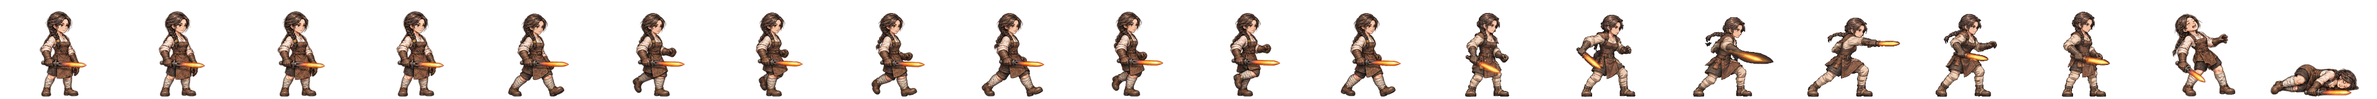
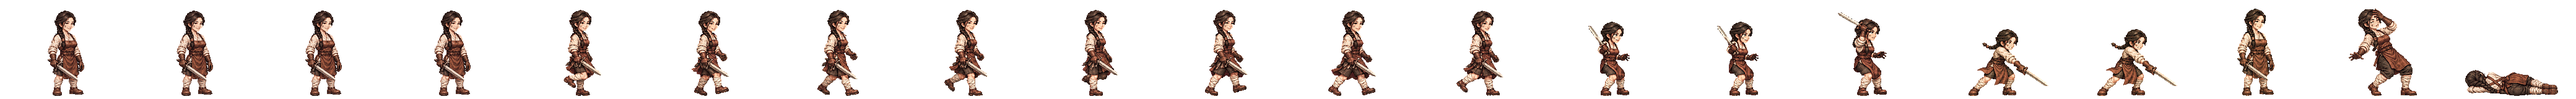
벽진 별 새 전투 띠를 게임에: 내려베기 b 판을 그림 API 로 받아 여덟 칸 · 맞음 네 칸 (두 갈래 검수 넣어도 된다)
하네스 HEROES 에 여섯째 묶음 창 장수 셋(마루·무등·연나 너울) 줄을 미리 더함(아직 게임에 안 넣음)

Claude-Session: https://claude.ai/code/session_01TRiuN7s6aDfSnaHxrkctmU

Changed region(s): [[0.4688, 0.0938, 1.0, 0.9688], [0.0, 0.125, 0.4375, 0.9688]]

diff --git a/src/realm/data/spritePx.ts b/src/realm/data/spritePx.ts
@@ -1,3 +1,3 @@
 /** public/realm/anim-px/manifest.json 의 사본 — tools/sprite-normalize.mjs 가 만든다 (손으로 고치지 말 것). 칸 [가로, 세로] · feet = 발 줄(칸 위에서 y) · bodyPx = 서 있는 몸 키 */
 import { expandManifest } from './sprite-manifest.ts'
-export const SPRITE_PX: Readonly<Record<string, { readonly cell: readonly [number, number]; readonly feet: number; readonly bodyPx: number; readonly kind: 'general' | 'soldier' | 'folk' | 'crowd'; readonly cells: number }>> = expandManifest<{ readonly cell: readonly [number, number]; readonly feet: number; readonly bodyPx: number; readonly kind: 'general' | 'soldier' | 'folk' | 'crowd'; readonly cells: number }>([{"cell":[166,128],"feet":126,"bodyPx":124,"kind":"soldier","cells":20},{"cell":[116,128],"feet":126,"bodyPx":117,"kind":"soldier","cells":20},{"cell":[127,128],"feet":126,"bodyPx":116,"kind":"soldier","cells":20},{"cell":[269,128],"feet":126,"bodyPx":126,"kind":"soldier","cells":20},{"cell":[503,128],"feet":126,"bodyPx":127,"kind":"soldier","cells":20},{"cell":[614,128],"feet":126,"bodyPx":126,"kind":"soldier","cells":20},{"cell":[200,160],"feet":156,"bodyPx":138,"kind":"general","cells":20},{"cell":[208,160],"feet":155,"bodyPx":138,"kind":"general","cells":20},{"cell":[208,160],"feet":154,"bodyPx":138,"kind":"general","cells":20},{"cell":[304,160],"feet":155,"bodyPx":135,"kind":"general","cells":20},{"cell":[184,160],"feet":156,"bodyPx":138,"kind":"general","cells":20},{"cell":[208,160],"feet":154,"bodyPx":136,"kind":"general","cells":20},{"cell":[240,160],"feet":156,"bodyPx":138,"kind":"general","cells":20},{"cell":[232,160],"feet":156,"bodyPx":138,"kind":"general","cells":20},{"cell":[208,160],"feet":156,"bodyPx":138,"kind":"general","cells":20},{"cell":[192,160],"feet":156,"bodyPx":138,"kind":"general","cells":20},{"cell":[168,160],"feet":156,"bodyPx":124,"kind":"general","cells":20},{"cell":[216,160],"feet":156,"bodyPx":130,"kind":"general","cells":20},{"cell":[200,160],"feet":156,"bodyPx":116,"kind":"general","cells":20},{"cell":[200,160],"feet":156,"bodyPx":135,"kind":"general","cells":20},{"cell":[280,160],"feet":156,"bodyPx":138,"kind":"general","cells":20},{"cell":[232,160],"feet":155,"bodyPx":138,"kind":"general","cells":20},{"cell":[232,160],"feet":156,"bodyPx":134,"kind":"general","cells":20},{"cell":[144,160],"feet":156,"bodyPx":70,"kind":"general","cells":20},{"cell":[208,160],"feet":156,"bodyPx":70,"kind":"general","cells":20},{"cell":[192,160],"feet":156,"bodyPx":70,"kind":"general","cells":20},{"cell":[240,160],"feet":155,"bodyPx":138,"kind":"general","cells":20},{"cell":[160,160],"feet":156,"bodyPx":135,"kind":"general","cells":20},{"cell":[192,160],"feet":156,"bodyPx":128,"kind":"general","cells":20},{"cell":[224,160],"feet":155,"bodyPx":138,"kind":"general","cells":20},{"cell":[232,160],"feet":156,"bodyPx":139,"kind":"general","cells":20},{"cell":[216,160],"feet":156,"bodyPx":138,"kind":"general","cells":20},{"cell":[208,160],"feet":156,"bodyPx":134,"kind":"general","cells":20},{"cell":[176,160],"feet":156,"bodyPx":130,"kind":"general","cells":20},{"cell":[248,160],"feet":156,"bodyPx":138,"kind":"general","cells":20},{"cell":[248,160],"feet":155,"bodyPx":138,"kind":"general","cells":20},{"cell":[192,160],"feet":155,"bodyPx":138,"kind":"general","cells":20},{"cell":[192,160],"feet":156,"bodyPx":124,"kind":"general","cells":20},{"cell":[208,160],"feet":154,"bodyPx":131,"kind":"general","cells":20},{"cell":[256,160],"feet":156,"bodyPx":138,"kind":"general","cells":20},{"cell":[232,160],"feet":156,"bodyPx":73,"kind":"general","cells":20},{"cell":[256,160],"feet":155,"bodyPx":138,"kind":"general","cells":20},{"cell":[264,160],"feet":156,"bodyPx":138,"kind":"general","cells":20},{"cell":[224,160],"feet":156,"bodyPx":138,"kind":"general","cells":20},{"cell":[224,160],"feet":156,"bodyPx":128,"kind":"general","cells":20},{"cell":[176,160],"feet":156,"bodyPx":129,"kind":"general","cells":20},{"cell":[208,160],"feet":154,"bodyPx":139,"kind":"general","cells":20},{"cell":[208,160],"feet":156,"bodyPx":132,"kind":"general","cells":20},{"cell":[208,160],"feet":154,"bodyPx":137,"kind":"general","cells":20},{"cell":[184,160],"feet":156,"bodyPx":122,"kind":"general","cells":20},{"cell":[176,160],"feet":156,"bodyPx":138,"kind":"general","cells":20},{"cell":[280,160],"feet":155,"bodyPx":133,"kind":"general","cells":20},{"cell":[176,160],"feet":156,"bodyPx":70,"kind":"general","cells":20},{"cell":[186,128],"feet":126,"bodyPx":127,"kind":"soldier","cells":20},{"cell":[298,128],"feet":126,"bodyPx":126,"kind":"soldier","cells":20},{"cell":[82,128],"feet":126,"bodyPx":114,"kind":"folk","cells":8},{"cell":[134,128],"feet":126,"bodyPx":119,"kind":"soldier","cells":20},{"cell":[380,128],"feet":126,"bodyPx":124,"kind":"soldier","cells":20},{"cell":[114,128],"feet":126,"bodyPx":115,"kind":"soldier","cells":20},{"cell":[122,128],"feet":126,"bodyPx":114,"kind":"soldier","cells":20},{"cell":[254,128],"feet":126,"bodyPx":128,"kind":"soldier","cells":20},{"cell":[438,128],"feet":126,"bodyPx":126,"kind":"soldier","cells":20},{"cell":[88,128],"feet":126,"bodyPx":113,"kind":"folk","cells":8},{"cell":[100,128],"feet":126,"bodyPx":115,"kind":"folk","cells":8},{"cell":[108,128],"feet":126,"bodyPx":115,"kind":"folk","cells":8},{"cell":[63,128],"feet":126,"bodyPx":113,"kind":"folk","cells":8},{"cell":[69,96],"feet":96,"bodyPx":96,"kind":"crowd","cells":1},{"cell":[54,96],"feet":96,"bodyPx":96,"kind":"crowd","cells":1},{"cell":[47,96],"feet":96,"bodyPx":96,"kind":"crowd","cells":1},{"cell":[49,96],"feet":96,"bodyPx":96,"kind":"crowd","cells":1},{"cell":[57,96],"feet":96,"bodyPx":96,"kind":"crowd","cells":1},{"cell":[55,96],"feet":96,"bodyPx":96,"kind":"crowd","cells":1},{"cell":[45,96],"feet":96,"bodyPx":96,"kind":"crowd","cells":1},{"cell":[53,96],"feet":96,"bodyPx":96,"kind":"crowd","cells":1},{"cell":[64,96],"feet":96,"bodyPx":96,"kind":"crowd","cells":1},{"cell":[184,160],"feet":156,"bodyPx":124,"kind":"general","cells":20},{"cell":[184,160],"feet":156,"bodyPx":134,"kind":"general","cells":20},{"cell":[224,160],"feet":156,"bodyPx":133,"kind":"general","cells":20},{"cell":[192,160],"feet":156,"bodyPx":135,"kind":"general","cells":20},{"cell":[184,160],"feet":156,"bodyPx":137,"kind":"general","cells":20},{"cell":[216,160],"feet":156,"bodyPx":134,"kind":"general","cells":20},{"cell":[216,160],"feet":156,"bodyPx":132,"kind":"general","cells":20},{"cell":[288,160],"feet":156,"bodyPx":138,"kind":"general","cells":20},{"cell":[192,160],"feet":156,"bodyPx":118,"kind":"general","cells":20},{"cell":[208,160],"feet":154,"bodyPx":134,"kind":"general","cells":20},{"cell":[192,160],"feet":157,"bodyPx":139,"kind":"general","cells":20},{"cell":[184,160],"feet":156,"bodyPx":128,"kind":"general","cells":20},{"cell":[240,160],"feet":156,"bodyPx":128,"kind":"general","cells":20},{"cell":[184,160],"feet":156,"bodyPx":132,"kind":"general","cells":20},{"cell":[208,160],"feet":156,"bodyPx":123,"kind":"general","cells":20},{"cell":[176,160],"feet":156,"bodyPx":116,"kind":"general","cells":20},{"cell":[272,160],"feet":156,"bodyPx":138,"kind":"general","cells":20},{"cell":[176,160],"feet":156,"bodyPx":122,"kind":"general","cells":20},{"cell":[232,160],"feet":156,"bodyPx":127,"kind":"general","cells":20},{"cell":[168,160],"feet":156,"bodyPx":138,"kind":"general","cells":20},{"cell":[176,160],"feet":156,"bodyPx":137,"kind":"general","cells":20},{"cell":[184,160],"feet":156,"bodyPx":133,"kind":"general","cells":20}],[["axe",0],["bandit-chief",1],["bandit-club",2],["boat",3],["bow",4],["crossbow",5],["gen-adogan",6],["gen-alpyeong",7],["gen-ara",8],["gen-areum",8],["gen-aryeong",9],["gen-bakdal",6],["gen-baram",8],["gen-bdanbi",10],["gen-beom",11],["gen-beombal",8],["gen-beomi",12],["gen-bira",13],["gen-biryu",14],["gen-budeul",8],["gen-byeol",15],["gen-daemusin",16],["gen-daeso",17],["gen-dallae2",10],["gen-dalli",10],["gen-damul",18],["gen-danbi",14],["gen-dangung",15],["gen-darae",19],["gen-dokmudeom",7],["gen-duman",20],["gen-eomni",21],["gen-eureum",22],["gen-g-bow",23],["gen-g-spear",24],["gen-g-sword",25],["gen-gaennae",6],["gen-gamsil",26],["gen-gaon",27],["gen-geota",14],["gen-geumbawi",10],["gen-geumha",28],["gen-goeun",14],["gen-gom",29],["gen-gomok",14],["gen-gureum",26],["gen-guryema",15],["gen-gwaeyu",13],["gen-haebi",8],["gen-haedal",6],["gen-haesol",30],["gen-halla",7],["gen-heo",8],["gen-hneoul",10],["gen-hogong",31],["gen-hojin",14],["gen-horselord",32],["gen-hwalmi",33],["gen-hyeokgeose",15],["gen-hyeopbo",6],["gen-irang",8],["gen-jibaekho",34],["gen-jinha",35],["gen-jita",36],["gen-jumong",37],["gen-keundol",7],["gen-maehwa",38],["gen-maenun",15],["gen-malgalgi",39],["gen-mari",12],["gen-maro",34],["gen-maryeo",14],["gen-mdallae",30],["gen-mir",6],["gen-mount",40],["gen-mulbeom",41],["gen-mulsae",31],["gen-musoe",31],["gen-noeul",8],["gen-nuri",42],["gen-ocheongan",43],["gen-odi",8],["gen-odogan",6],["gen-ogan",15],["gen-oi",44],["gen-olddaeso",22],["gen-onjo",45],["gen-pidogan",14],["gen-sagong",46],["gen-sdallae",6],["gen-sincheongan",31],["gen-singwigan",31],["gen-sinneoul",8],["gen-sobeol",21],["gen-soebi",6],["gen-soebo",47],["gen-soenun",34],["gen-sogeumbi",48],["gen-songbi",43],["gen-songyang",49],["gen-sori",50],["gen-soseono",51],["gen-suro",15],["gen-tahae",6],["gen-tneoul",8],["gen-w-bow",23],["gen-w-spear",52],["gen-waechief",14],["gen-wan",31],["gen-yeodogan",14],["gen-yucheongan",14],["gen-yusugan",34],["horse",53],["marine",54],["migrant",55],["militia",56],["pike",57],["pirate-captain",58],["pirate-sword",59],["shield",60],["spear",61],["villager-builder",62],["villager-farmer",63],["villager-porter",64],["villager-woman",65],["crowd-b1",66],["crowd-b2",67],["crowd-b3",68],["crowd-b4",69],["crowd-b5",70],["crowd-b6",71],["crowd-f1",66],["crowd-f2",71],["crowd-f3",72],["crowd-f4",73],["crowd-f5",66],["crowd-f6",74],["gen-dalbit",14],["gen-base-g-07-drunk-warrior",15],["gen-base-g-40-anya-adan",14],["gen-base-w-13-young-archer",8],["gen-base-g-03-sea-trader",12],["gen-base-w-10-pirate-captain",46],["gen-base-w-64-miri-dallae",46],["gen-base-g-41-goja-bau",12],["gen-base-g-42-dokro-garam",42],["gen-base-g-09-farmer-conscript",31],["gen-base-w-02-goguryeo-lady",31],["gen-base-w-17-mahan-pearl-diver",8],["gen-base-g-17-saro-isageum",47],["gen-base-g-18-daegaya-king",75],["gen-base-g-35-dabeol-dalgu",14],["gen-base-g-19-sabeol-veteran",31],["gen-base-w-23-usisan-whale-queen",8],["gen-base-g-36-gammun-gamdol",43],["gen-base-g-20-samul-sea-lord",39],["gen-base-g-37-eumjeup-jeup",10],["gen-base-g-38-chopal-palmae",15],["gen-base-w-75-daegaya-soemoe",15],["gen-base-g-45-dabeol-deulgae",10],["gen-base-g-04-jinhan-giant",14],["gen-base-g-08-veteran",14],["gen-base-w-18-jinhan-salt-widow",8],["gen-base-w-12-court-dancer",76],["gen-base-w-83-gyeonji-beodeul",77],["gen-base-w-05-baekje-queen",78],["gen-base-w-21-baekje-court-dancer",10],["gen-base-g-01-master-smith",79],["gen-base-g-93-jomun-solgae",33],["gen-base-g-57-bihwa-neup",12],["gen-base-w-72-eumjeup-beol",8],["gen-base-w-102-garak-dana",46],["gen-base-g-68-baekje-onnuri",14],["gen-base-w-27-mokji-jinha",6],["gen-base-g-22-ungcheon-gomnae",6],["gen-base-g-23-sangdang-soedal",14],["gen-base-g-24-wansan-onsan",6],["gen-base-g-25-balla-keunmoe",31],["gen-base-g-61-heomcheuk-bawi",31],["gen-base-g-88-wander-soeul",43],["gen-base-w-14-feast-spy",6],["gen-base-g-12-silla-youth",80],["gen-base-w-08-mahan-warrior",8],["gen-base-g-62-beonye-hanul",12],["gen-base-g-63-heomcheuk-beogeum",14],["gen-base-g-84-wander-seoneul",14],["gen-base-w-50-siljik-mulga",31],["gen-base-g-46-uga-nureongso",31],["gen-base-w-80-usan-gangchi",12],["gen-base-g-47-guga-sanyanggae",31],["gen-base-w-76-gampyeong-baetsagong",8],["gen-base-g-05-mahan-chieftain",81],["gen-base-g-58-usan-uhae",14],["gen-base-g-27-maek-maekdol",14],["gen-base-w-53-hwanna-gabi",46],["gen-base-w-29-golpo-janmul",34],["gen-base-g-53-baekje-haeru",6],["gen-base-w-71-yeonna-neoul",12],["gen-base-w-79-yangmaek-solmae",31],["gen-base-w-34-chopal-deulme",8],["gen-base-g-44-maga-malgup",82],["gen-base-w-31-dabeol-dalbit",46],["gen-base-g-51-biryuna-mulgyeol",43],["gen-base-g-48-gwanna-musoe",14],["gen-base-g-32-uga-sodu",13],["gen-base-g-49-goguryeo-sona",83],["gen-base-g-30-gwanna-soemoe",43],["gen-base-g-52-tamna-oreum",10],["gen-base-g-29-yeonna-myeongsol",37],["gen-base-w-56-dongokjeo-sogeum",84],["gen-base-g-54-mokji-mahan",13],["gen-base-g-33-jeoga-metdol",15],["gen-base-w-36-baekje-maena",8],["gen-base-w-38-sangdang-bulmae",6],["gen-base-w-39-gosaburi-galmae",85],["gen-base-w-40-mujin-munui",47],["gen-base-w-41-hwanna-beodeul",86],["gen-base-w-43-uga-nuri",39],["gen-base-w-45-tamna-oreumbi",10],["gen-base-g-60-golbeol-golgae",10],["gen-base-g-61-apdok-ap",31],["gen-base-g-62-gammun-gamnamu",6],["gen-base-g-63-chopal-yeoul",34],["gen-base-g-64-michuhol-sogeumkkun",12],["gen-base-g-65-sangdang-soemangchi",43],["gen-base-g-66-geonma-malbalgup",87],["gen-base-g-67-gosaburi-buri",88],["gen-base-g-68-mujin-bitgoeul",10],["gen-base-g-69-goryong-yong",43],["gen-base-g-70-siljik-pado",12],["gen-base-w-81-byeokjin-byeolbit",13],["gen-base-w-46-geonma-maru",34],["gen-base-w-48-mujin-mudeung",12],["gen-base-g-26-gampyeong-gaetbeol",13],["gen-base-g-60-eupcha-hangyeol",89],["gen-base-g-15-shaman-man",31],["gen-base-g-85-wander-ure",34],["gen-base-g-43-hwanna-amnok",14],["gen-base-g-50-bullae-gwaha",78],["gen-base-g-55-saro-bakdal",14],["gen-base-g-56-haseulla-gwahama",6],["gen-base-w-06-buyeo-huntress",48],["gen-base-w-22-dongye-tiger-huntress",8],["gen-base-w-25-bihwa-priestess",31],["gen-base-w-24-apdok-queen",10],["gen-base-w-61-iseo-sinae",14],["gen-base-w-26-iseo-tomboy-general",8],["gen-base-g-59-yangmaek-maekson",90],["gen-aw1-haebi",43],["gen-aw1-soseono",91],["gen-aw1-gamsil",10],["gen-aw1-mir",50],["gen-aw1-dangung",6],["gen-aw1-ara",43],["gen-aw1-jumong",92],["gen-aw1-onjo",93],["gen-aw1-base-w-83-gyeonji-beodeul",15],["gen-aw1-heo",42],["gen-aw1-base-g-38-chopal-palmae",6],["gen-aw1-base-w-25-bihwa-priestess",76],["gen-aw1-sori",94],["gen-aw1-gomok",6],["gen-aw1-irang",15],["gen-aw1-budeul",94],["gen-aw1-gom",12],["gen-aw1-sdallae",6],["gen-aw1-base-w-13-young-archer",6],["gen-aw1-base-w-36-baekje-maena",95],["gen-aw1-base-g-09-farmer-conscript",42],["gen-aw1-base-w-02-goguryeo-lady",96],["gen-aw1-haedal",10],["gen-aw1-hogong",6],["gen-aw1-maehwa",50],["gen-aw1-base-w-06-buyeo-huntress",13],["gen-aw1-base-w-08-mahan-warrior",43],["gen-aw1-base-w-29-golpo-janmul",43],["gen-aw1-base-w-31-dabeol-dalbit",15],["gen-aw1-base-w-38-sangdang-bulmae",94],["gen-aw1-bira",31],["gen-aw1-base-w-53-hwanna-gabi",94],["gen-aw1-base-w-56-dongokjeo-sogeum",50],["gen-aw1-base-w-72-eumjeup-beol",15],["gen-aw1-bdanbi",94],["gen-aw1-beom",10],["gen-aw1-beombal",10],["gen-aw1-byeol",15],["gen-aw1-dalli",50],["gen-aw1-malgalgi",34],["gen-aw1-sincheongan",31]])
+export const SPRITE_PX: Readonly<Record<string, { readonly cell: readonly [number, number]; readonly feet: number; readonly bodyPx: number; readonly kind: 'general' | 'soldier' | 'folk' | 'crowd'; readonly cells: number }>> = expandManifest<{ readonly cell: readonly [number, number]; readonly feet: number; readonly bodyPx: number; readonly kind: 'general' | 'soldier' | 'folk' | 'crowd'; readonly cells: number }>([{"cell":[166,128],"feet":126,"bodyPx":124,"kind":"soldier","cells":20},{"cell":[116,128],"feet":126,"bodyPx":117,"kind":"soldier","cells":20},{"cell":[127,128],"feet":126,"bodyPx":116,"kind":"soldier","cells":20},{"cell":[269,128],"feet":126,"bodyPx":126,"kind":"soldier","cells":20},{"cell":[503,128],"feet":126,"bodyPx":127,"kind":"soldier","cells":20},{"cell":[614,128],"feet":126,"bodyPx":126,"kind":"soldier","cells":20},{"cell":[200,160],"feet":156,"bodyPx":138,"kind":"general","cells":20},{"cell":[208,160],"feet":155,"bodyPx":138,"kind":"general","cells":20},{"cell":[208,160],"feet":154,"bodyPx":138,"kind":"general","cells":20},{"cell":[304,160],"feet":155,"bodyPx":135,"kind":"general","cells":20},{"cell":[184,160],"feet":156,"bodyPx":138,"kind":"general","cells":20},{"cell":[208,160],"feet":154,"bodyPx":136,"kind":"general","cells":20},{"cell":[240,160],"feet":156,"bodyPx":138,"kind":"general","cells":20},{"cell":[232,160],"feet":156,"bodyPx":138,"kind":"general","cells":20},{"cell":[208,160],"feet":156,"bodyPx":138,"kind":"general","cells":20},{"cell":[168,160],"feet":156,"bodyPx":124,"kind":"general","cells":20},{"cell":[216,160],"feet":156,"bodyPx":130,"kind":"general","cells":20},{"cell":[200,160],"feet":156,"bodyPx":116,"kind":"general","cells":20},{"cell":[192,160],"feet":156,"bodyPx":138,"kind":"general","cells":20},{"cell":[200,160],"feet":156,"bodyPx":135,"kind":"general","cells":20},{"cell":[280,160],"feet":156,"bodyPx":138,"kind":"general","cells":20},{"cell":[232,160],"feet":155,"bodyPx":138,"kind":"general","cells":20},{"cell":[232,160],"feet":156,"bodyPx":134,"kind":"general","cells":20},{"cell":[144,160],"feet":156,"bodyPx":70,"kind":"general","cells":20},{"cell":[208,160],"feet":156,"bodyPx":70,"kind":"general","cells":20},{"cell":[192,160],"feet":156,"bodyPx":70,"kind":"general","cells":20},{"cell":[240,160],"feet":155,"bodyPx":138,"kind":"general","cells":20},{"cell":[160,160],"feet":156,"bodyPx":135,"kind":"general","cells":20},{"cell":[192,160],"feet":156,"bodyPx":128,"kind":"general","cells":20},{"cell":[224,160],"feet":155,"bodyPx":138,"kind":"general","cells":20},{"cell":[232,160],"feet":156,"bodyPx":139,"kind":"general","cells":20},{"cell":[216,160],"feet":156,"bodyPx":138,"kind":"general","cells":20},{"cell":[208,160],"feet":156,"bodyPx":134,"kind":"general","cells":20},{"cell":[176,160],"feet":156,"bodyPx":130,"kind":"general","cells":20},{"cell":[248,160],"feet":156,"bodyPx":138,"kind":"general","cells":20},{"cell":[248,160],"feet":155,"bodyPx":138,"kind":"general","cells":20},{"cell":[192,160],"feet":155,"bodyPx":138,"kind":"general","cells":20},{"cell":[192,160],"feet":156,"bodyPx":124,"kind":"general","cells":20},{"cell":[208,160],"feet":154,"bodyPx":131,"kind":"general","cells":20},{"cell":[256,160],"feet":156,"bodyPx":138,"kind":"general","cells":20},{"cell":[232,160],"feet":156,"bodyPx":73,"kind":"general","cells":20},{"cell":[256,160],"feet":155,"bodyPx":138,"kind":"general","cells":20},{"cell":[264,160],"feet":156,"bodyPx":138,"kind":"general","cells":20},{"cell":[224,160],"feet":156,"bodyPx":138,"kind":"general","cells":20},{"cell":[224,160],"feet":156,"bodyPx":128,"kind":"general","cells":20},{"cell":[176,160],"feet":156,"bodyPx":129,"kind":"general","cells":20},{"cell":[208,160],"feet":154,"bodyPx":139,"kind":"general","cells":20},{"cell":[208,160],"feet":156,"bodyPx":132,"kind":"general","cells":20},{"cell":[208,160],"feet":154,"bodyPx":137,"kind":"general","cells":20},{"cell":[184,160],"feet":156,"bodyPx":122,"kind":"general","cells":20},{"cell":[176,160],"feet":156,"bodyPx":138,"kind":"general","cells":20},{"cell":[280,160],"feet":155,"bodyPx":133,"kind":"general","cells":20},{"cell":[176,160],"feet":156,"bodyPx":70,"kind":"general","cells":20},{"cell":[186,128],"feet":126,"bodyPx":127,"kind":"soldier","cells":20},{"cell":[298,128],"feet":126,"bodyPx":126,"kind":"soldier","cells":20},{"cell":[82,128],"feet":126,"bodyPx":114,"kind":"folk","cells":8},{"cell":[134,128],"feet":126,"bodyPx":119,"kind":"soldier","cells":20},{"cell":[380,128],"feet":126,"bodyPx":124,"kind":"soldier","cells":20},{"cell":[114,128],"feet":126,"bodyPx":115,"kind":"soldier","cells":20},{"cell":[122,128],"feet":126,"bodyPx":114,"kind":"soldier","cells":20},{"cell":[254,128],"feet":126,"bodyPx":128,"kind":"soldier","cells":20},{"cell":[438,128],"feet":126,"bodyPx":126,"kind":"soldier","cells":20},{"cell":[88,128],"feet":126,"bodyPx":113,"kind":"folk","cells":8},{"cell":[100,128],"feet":126,"bodyPx":115,"kind":"folk","cells":8},{"cell":[108,128],"feet":126,"bodyPx":115,"kind":"folk","cells":8},{"cell":[63,128],"feet":126,"bodyPx":113,"kind":"folk","cells":8},{"cell":[69,96],"feet":96,"bodyPx":96,"kind":"crowd","cells":1},{"cell":[54,96],"feet":96,"bodyPx":96,"kind":"crowd","cells":1},{"cell":[47,96],"feet":96,"bodyPx":96,"kind":"crowd","cells":1},{"cell":[49,96],"feet":96,"bodyPx":96,"kind":"crowd","cells":1},{"cell":[57,96],"feet":96,"bodyPx":96,"kind":"crowd","cells":1},{"cell":[55,96],"feet":96,"bodyPx":96,"kind":"crowd","cells":1},{"cell":[45,96],"feet":96,"bodyPx":96,"kind":"crowd","cells":1},{"cell":[53,96],"feet":96,"bodyPx":96,"kind":"crowd","cells":1},{"cell":[64,96],"feet":96,"bodyPx":96,"kind":"crowd","cells":1},{"cell":[184,160],"feet":156,"bodyPx":124,"kind":"general","cells":20},{"cell":[184,160],"feet":156,"bodyPx":134,"kind":"general","cells":20},{"cell":[224,160],"feet":156,"bodyPx":133,"kind":"general","cells":20},{"cell":[192,160],"feet":156,"bodyPx":135,"kind":"general","cells":20},{"cell":[184,160],"feet":156,"bodyPx":137,"kind":"general","cells":20},{"cell":[216,160],"feet":156,"bodyPx":134,"kind":"general","cells":20},{"cell":[216,160],"feet":156,"bodyPx":132,"kind":"general","cells":20},{"cell":[288,160],"feet":156,"bodyPx":138,"kind":"general","cells":20},{"cell":[192,160],"feet":156,"bodyPx":118,"kind":"general","cells":20},{"cell":[208,160],"feet":154,"bodyPx":134,"kind":"general","cells":20},{"cell":[192,160],"feet":157,"bodyPx":139,"kind":"general","cells":20},{"cell":[184,160],"feet":156,"bodyPx":128,"kind":"general","cells":20},{"cell":[240,160],"feet":156,"bodyPx":128,"kind":"general","cells":20},{"cell":[184,160],"feet":156,"bodyPx":132,"kind":"general","cells":20},{"cell":[208,160],"feet":156,"bodyPx":123,"kind":"general","cells":20},{"cell":[176,160],"feet":156,"bodyPx":116,"kind":"general","cells":20},{"cell":[272,160],"feet":156,"bodyPx":138,"kind":"general","cells":20},{"cell":[176,160],"feet":156,"bodyPx":122,"kind":"general","cells":20},{"cell":[232,160],"feet":156,"bodyPx":127,"kind":"general","cells":20},{"cell":[168,160],"feet":156,"bodyPx":138,"kind":"general","cells":20},{"cell":[176,160],"feet":156,"bodyPx":137,"kind":"general","cells":20},{"cell":[184,160],"feet":156,"bodyPx":133,"kind":"general","cells":20}],[["axe",0],["bandit-chief",1],["bandit-club",2],["boat",3],["bow",4],["crossbow",5],["gen-adogan",6],["gen-alpyeong",7],["gen-ara",8],["gen-areum",8],["gen-aryeong",9],["gen-bakdal",6],["gen-baram",8],["gen-bdanbi",10],["gen-beom",11],["gen-beombal",8],["gen-beomi",12],["gen-bira",13],["gen-biryu",14],["gen-budeul",8],["gen-byeol",8],["gen-daemusin",15],["gen-daeso",16],["gen-dallae2",10],["gen-dalli",10],["gen-damul",17],["gen-danbi",14],["gen-dangung",18],["gen-darae",19],["gen-dokmudeom",7],["gen-duman",20],["gen-eomni",21],["gen-eureum",22],["gen-g-bow",23],["gen-g-spear",24],["gen-g-sword",25],["gen-gaennae",6],["gen-gamsil",26],["gen-gaon",27],["gen-geota",14],["gen-geumbawi",10],["gen-geumha",28],["gen-goeun",14],["gen-gom",29],["gen-gomok",14],["gen-gureum",26],["gen-guryema",18],["gen-gwaeyu",13],["gen-haebi",8],["gen-haedal",6],["gen-haesol",30],["gen-halla",7],["gen-heo",8],["gen-hneoul",10],["gen-hogong",31],["gen-hojin",14],["gen-horselord",32],["gen-hwalmi",33],["gen-hyeokgeose",18],["gen-hyeopbo",6],["gen-irang",8],["gen-jibaekho",34],["gen-jinha",35],["gen-jita",36],["gen-jumong",37],["gen-keundol",7],["gen-maehwa",38],["gen-maenun",18],["gen-malgalgi",39],["gen-mari",12],["gen-maro",34],["gen-maryeo",14],["gen-mdallae",30],["gen-mir",6],["gen-mount",40],["gen-mulbeom",41],["gen-mulsae",31],["gen-musoe",31],["gen-noeul",8],["gen-nuri",42],["gen-ocheongan",43],["gen-odi",8],["gen-odogan",6],["gen-ogan",18],["gen-oi",44],["gen-olddaeso",22],["gen-onjo",45],["gen-pidogan",14],["gen-sagong",46],["gen-sdallae",6],["gen-sincheongan",31],["gen-singwigan",31],["gen-sinneoul",8],["gen-sobeol",21],["gen-soebi",6],["gen-soebo",47],["gen-soenun",34],["gen-sogeumbi",48],["gen-songbi",43],["gen-songyang",49],["gen-sori",50],["gen-soseono",51],["gen-suro",18],["gen-tahae",6],["gen-tneoul",8],["gen-w-bow",23],["gen-w-spear",52],["gen-waechief",14],["gen-wan",31],["gen-yeodogan",14],["gen-yucheongan",14],["gen-yusugan",34],["horse",53],["marine",54],["migrant",55],["militia",56],["pike",57],["pirate-captain",58],["pirate-sword",59],["shield",60],["spear",61],["villager-builder",62],["villager-farmer",63],["villager-porter",64],["villager-woman",65],["crowd-b1",66],["crowd-b2",67],["crowd-b3",68],["crowd-b4",69],["crowd-b5",70],["crowd-b6",71],["crowd-f1",66],["crowd-f2",71],["crowd-f3",72],["crowd-f4",73],["crowd-f5",66],["crowd-f6",74],["gen-dalbit",14],["gen-base-g-07-drunk-warrior",18],["gen-base-g-40-anya-adan",14],["gen-base-w-13-young-archer",8],["gen-base-g-03-sea-trader",12],["gen-base-w-10-pirate-captain",46],["gen-base-w-64-miri-dallae",46],["gen-base-g-41-goja-bau",12],["gen-base-g-42-dokro-garam",42],["gen-base-g-09-farmer-conscript",31],["gen-base-w-02-goguryeo-lady",31],["gen-base-w-17-mahan-pearl-diver",8],["gen-base-g-17-saro-isageum",47],["gen-base-g-18-daegaya-king",75],["gen-base-g-35-dabeol-dalgu",14],["gen-base-g-19-sabeol-veteran",31],["gen-base-w-23-usisan-whale-queen",8],["gen-base-g-36-gammun-gamdol",43],["gen-base-g-20-samul-sea-lord",39],["gen-base-g-37-eumjeup-jeup",10],["gen-base-g-38-chopal-palmae",18],["gen-base-w-75-daegaya-soemoe",18],["gen-base-g-45-dabeol-deulgae",10],["gen-base-g-04-jinhan-giant",14],["gen-base-g-08-veteran",14],["gen-base-w-18-jinhan-salt-widow",8],["gen-base-w-12-court-dancer",76],["gen-base-w-83-gyeonji-beodeul",77],["gen-base-w-05-baekje-queen",78],["gen-base-w-21-baekje-court-dancer",10],["gen-base-g-01-master-smith",79],["gen-base-g-93-jomun-solgae",33],["gen-base-g-57-bihwa-neup",12],["gen-base-w-72-eumjeup-beol",8],["gen-base-w-102-garak-dana",46],["gen-base-g-68-baekje-onnuri",14],["gen-base-w-27-mokji-jinha",6],["gen-base-g-22-ungcheon-gomnae",6],["gen-base-g-23-sangdang-soedal",14],["gen-base-g-24-wansan-onsan",6],["gen-base-g-25-balla-keunmoe",31],["gen-base-g-61-heomcheuk-bawi",31],["gen-base-g-88-wander-soeul",43],["gen-base-w-14-feast-spy",6],["gen-base-g-12-silla-youth",80],["gen-base-w-08-mahan-warrior",8],["gen-base-g-62-beonye-hanul",12],["gen-base-g-63-heomcheuk-beogeum",14],["gen-base-g-84-wander-seoneul",14],["gen-base-w-50-siljik-mulga",31],["gen-base-g-46-uga-nureongso",31],["gen-base-w-80-usan-gangchi",12],["gen-base-g-47-guga-sanyanggae",31],["gen-base-w-76-gampyeong-baetsagong",8],["gen-base-g-05-mahan-chieftain",81],["gen-base-g-58-usan-uhae",14],["gen-base-g-27-maek-maekdol",14],["gen-base-w-53-hwanna-gabi",46],["gen-base-w-29-golpo-janmul",34],["gen-base-g-53-baekje-haeru",6],["gen-base-w-71-yeonna-neoul",12],["gen-base-w-79-yangmaek-solmae",31],["gen-base-w-34-chopal-deulme",8],["gen-base-g-44-maga-malgup",82],["gen-base-w-31-dabeol-dalbit",46],["gen-base-g-51-biryuna-mulgyeol",43],["gen-base-g-48-gwanna-musoe",14],["gen-base-g-32-uga-sodu",13],["gen-base-g-49-goguryeo-sona",83],["gen-base-g-30-gwanna-soemoe",43],["gen-base-g-52-tamna-oreum",10],["gen-base-g-29-yeonna-myeongsol",37],["gen-base-w-56-dongokjeo-sogeum",84],["gen-base-g-54-mokji-mahan",13],["gen-base-g-33-jeoga-metdol",18],["gen-base-w-36-baekje-maena",8],["gen-base-w-38-sangdang-bulmae",6],["gen-base-w-39-gosaburi-galmae",85],["gen-base-w-40-mujin-munui",47],["gen-base-w-41-hwanna-beodeul",86],["gen-base-w-43-uga-nuri",39],["gen-base-w-45-tamna-oreumbi",10],["gen-base-g-60-golbeol-golgae",10],["gen-base-g-61-apdok-ap",31],["gen-base-g-62-gammun-gamnamu",6],["gen-base-g-63-chopal-yeoul",34],["gen-base-g-64-michuhol-sogeumkkun",12],["gen-base-g-65-sangdang-soemangchi",43],["gen-base-g-66-geonma-malbalgup",87],["gen-base-g-67-gosaburi-buri",88],["gen-base-g-68-mujin-bitgoeul",10],["gen-base-g-69-goryong-yong",43],["gen-base-g-70-siljik-pado",12],["gen-base-w-81-byeokjin-byeolbit",13],["gen-base-w-46-geonma-maru",34],["gen-base-w-48-mujin-mudeung",12],["gen-base-g-26-gampyeong-gaetbeol",13],["gen-base-g-60-eupcha-hangyeol",89],["gen-base-g-15-shaman-man",31],["gen-base-g-85-wander-ure",34],["gen-base-g-43-hwanna-amnok",14],["gen-base-g-50-bullae-gwaha",78],["gen-base-g-55-saro-bakdal",14],["gen-base-g-56-haseulla-gwahama",6],["gen-base-w-06-buyeo-huntress",48],["gen-base-w-22-dongye-tiger-huntress",8],["gen-base-w-25-bihwa-priestess",31],["gen-base-w-24-apdok-queen",10],["gen-base-w-61-iseo-sinae",14],["gen-base-w-26-iseo-tomboy-general",8],["gen-base-g-59-yangmaek-maekson",90],["gen-aw1-haebi",43],["gen-aw1-soseono",91],["gen-aw1-gamsil",10],["gen-aw1-mir",50],["gen-aw1-dangung",6],["gen-aw1-ara",43],["gen-aw1-jumong",92],["gen-aw1-onjo",93],["gen-aw1-base-w-83-gyeonji-beodeul",18],["gen-aw1-heo",42],["gen-aw1-base-g-38-chopal-palmae",6],["gen-aw1-base-w-25-bihwa-priestess",76],["gen-aw1-sori",94],["gen-aw1-gomok",6],["gen-aw1-irang",18],["gen-aw1-budeul",94],["gen-aw1-gom",12],["gen-aw1-sdallae",6],["gen-aw1-base-w-13-young-archer",6],["gen-aw1-base-w-36-baekje-maena",95],["gen-aw1-base-g-09-farmer-conscript",42],["gen-aw1-base-w-02-goguryeo-lady",96],["gen-aw1-haedal",10],["gen-aw1-hogong",6],["gen-aw1-maehwa",50],["gen-aw1-base-w-06-buyeo-huntress",13],["gen-aw1-base-w-08-mahan-warrior",43],["gen-aw1-base-w-29-golpo-janmul",43],["gen-aw1-base-w-31-dabeol-dalbit",18],["gen-aw1-base-w-38-sangdang-bulmae",94],["gen-aw1-bira",31],["gen-aw1-base-w-53-hwanna-gabi",94],["gen-aw1-base-w-56-dongokjeo-sogeum",50],["gen-aw1-base-w-72-eumjeup-beol",18],["gen-aw1-bdanbi",94],["gen-aw1-beom",10],["gen-aw1-beombal",10],["gen-aw1-byeol",18],["gen-aw1-dalli",50],["gen-aw1-malgalgi",34],["gen-aw1-sincheongan",31]])

diff --git a/src/duel/view.ts b/src/duel/view.ts
@@ -100,7 +100,7 @@ const crowdFront = [1, 2, 3, 4, 5, 6].map((i) => img(`realm/duel/crowd/b${i}.png
 const crowdReady = (set: HTMLImageElement[]): boolean => set.every((im) => im.complete && im.naturalWidth > 0)
 const pxMode = cfg.px !== false && params.get('px') !== '0'
 /** 겨루기 전용 옛 띠(duel/sprites) 대신 열전과 같은 도트 띠(anim-px)를 쓰는 장수 — 두 판에서 같은 모습 · 서기 계획·쓰러지는 칸도 같다 (11-23 범 · 매화 · 달빛 · 11-24 해비 · 아룸) */
-const PX_DUEL: ReadonlySet<string> = new Set(['beom', 'maehwa', 'base-w-31-dabeol-dalbit', 'haebi', 'areum', 'base-w-13-young-archer', 'base-w-10-pirate-captain', 'base-w-17-mahan-pearl-diver', 'base-w-06-buyeo-huntress', 'base-w-64-miri-dallae', 'ara', 'base-w-22-dongye-tiger-huntress', 'noeul', 'sagong', 'sinneoul', 'heo', 'base-w-08-mahan-warrior', 'base-w-23-usisan-whale-queen', 'base-w-26-iseo-tomboy-general', 'base-w-72-eumjeup-beol', 'tneoul', 'odi', 'base-w-76-gampyeong-baetsagong', 'base-w-34-chopal-deulme', 'base-w-102-garak-dana', 'base-w-36-baekje-maena', 'base-w-56-dongokjeo-sogeum', 'budeul', 'base-w-53-hwanna-gabi', 'base-w-18-jinhan-salt-widow', 'beombal', 'irang', 'sogeumbi', 'baram'])
+const PX_DUEL: ReadonlySet<string> = new Set(['beom', 'maehwa', 'base-w-31-dabeol-dalbit', 'haebi', 'areum', 'base-w-13-young-archer', 'base-w-10-pirate-captain', 'base-w-17-mahan-pearl-diver', 'base-w-06-buyeo-huntress', 'base-w-64-miri-dallae', 'ara', 'base-w-22-dongye-tiger-huntress', 'noeul', 'sagong', 'sinneoul', 'heo', 'base-w-08-mahan-warrior', 'base-w-23-usisan-whale-queen', 'base-w-26-iseo-tomboy-general', 'base-w-72-eumjeup-beol', 'tneoul', 'odi', 'base-w-76-gampyeong-baetsagong', 'base-w-34-chopal-deulme', 'base-w-102-garak-dana', 'base-w-36-baekje-maena', 'base-w-56-dongokjeo-sogeum', 'budeul', 'base-w-53-hwanna-gabi', 'base-w-18-jinhan-salt-widow', 'beombal', 'irang', 'sogeumbi', 'baram', 'byeol'])
 /** 띠 그림 — 기본은 anim-px(도트 규격) 먼저, 없으면 옛 띠로 (img 의 onerror 가 갈아 끼운다) */
 const strip = (s: string): HTMLImageElement => pxMode
   ? DUEL_ATLASES[s] !== undefined && !PX_DUEL.has(s) ? img(`realm/duel/sprites/gen-${s}.png`, `realm/anim-px/gen-${s}.png`)

diff --git a/src/tune/params.ts b/src/tune/params.ts
@@ -1453,6 +1453,7 @@ export const HAEBI_IDLE = {
     irang: { cells: 38, base: [0, 1], hold: 2.4, fall: [18, 20, 21, 19], quirk: [22, 23, 24, 25], quirkTimes: [.3, .32, .4, .28], attack: { cells: [26, 27, 28, 29, 30, 31, 32, 33], times: [.08, .09, .09, .05, .15, .08, .09, .12], hit: 3 }, hurt: [34, 35], rise: [36, 37], xGeom: { h: 224, root: 92, foot: 216 } },
     sogeumbi: { cells: 34, base: [0, 1], hold: 2.4, fall: [18, 20, 21, 19], attack: { cells: [22, 23, 24, 25, 26, 27, 28, 29], times: [.09, .08, .11, .05, .15, .07, .08, .12], hit: 4 }, hurt: [30, 31], rise: [32, 33], xGeom: { h: 224, root: 92, foot: 216 } },
     baram: { cells: 34, base: [0, 1], hold: 2.4, fall: [18, 20, 21, 19], quirk: [22, 23, 24, 25], quirkTimes: [.3, .32, .4, .28], attack: { cells: [26, 27, 28, 29, 30, 31, 32, 33], times: [.09, .08, .11, .12, .12, .08, .08, .12], hit: 3 }, xGeom: { h: 224, root: 92, foot: 216 } },
+    byeol: { cells: 38, base: [0, 1], hold: 2.4, fall: [18, 20, 21, 19], quirk: [22, 23, 24, 25], quirkTimes: [.3, .32, .4, .28], attack: { cells: [26, 27, 28, 29, 30, 31, 32, 33], times: [.09, .08, .11, .05, .15, .07, .08, .12], hit: 4 }, hurt: [34, 35], rise: [36, 37], xGeom: { h: 224, root: 92, foot: 216 } },
   },
 } as const
 export const HAEBI_ANIM = {

diff --git a/tools/sprite-kit/anim-harness.py b/tools/sprite-kit/anim-harness.py
@@ -63,6 +63,11 @@ HEROES = {
     'deulme': dict(hit=True, strip='gen-base-w-34-chopal-deulme', atk='thrust', src='thrust2', actw=264, atk8=True, act=True, legacy=(('a', 2), ('a', 3), ('b', 3), ('b', 4))),   # 초팔 들메(창 · 우람한 뼈대 · 가슴 L)
     'dana': dict(hit=True, strip='gen-base-w-102-garak-dana', atk='bow', atk8=False),   # 가락 다나(활 · 가슴 XL)
     'maena': dict(hit=True, strip='gen-base-w-36-baekje-maena', atk='bow', atk8=False),   # 백제 매나(활 · 가슴 L)
+    'galmae': dict(strip='gen-base-w-39-gosaburi-galmae', atk='bow', atk8=False),   # 가오사부리 갈매(활 · 가슴 XL) · 일곱째 묶음 = 그림 API 만으로
+    'beodeul': dict(strip='gen-base-w-41-hwanna-beodeul', atk='bow', atk8=False),   # 환나 버들(활 · 가슴 L) · API
+    'solmae': dict(strip='gen-base-w-79-yangmaek-solmae', atk='bow', atk8=False),   # 양맥 솔매(활 · 가슴 M) · API
+    'dalli': dict(strip='gen-dalli', atk='bow', atk8=False),   # 마가 달리(활 · 우람한 뼈대) · API
+    'danbi': dict(strip='gen-danbi', atk='bow', atk8=False),   # 사로 단비(활 · 가는 뼈대 → M 장면) · API
     'sogeum': dict(hit=True, strip='gen-base-w-56-dongokjeo-sogeum', atk='slash', atk8=True, act=True, legacy=(('a', 1), ('a', 3), ('b', 2), ('b', 4))),   # 동옥저 소금 상인(단검 · 가슴 XL) · 좁은 칸은 아라처럼 덜 뻗은 칸
     'budeul': dict(hit=True, strip='gen-budeul', atk='slash', atk8=True, act=True, legacy=(('a', 1), ('a', 3), ('b', 2), ('b', 4))),   # 골벌 부들(단검 · 가슴 L)
     'gabi': dict(hit=True, strip='gen-base-w-53-hwanna-gabi', atk='slash', atk8=True, act=True, legacy=(('a', 1), ('a', 3), ('b', 2), ('b', 4))),   # 환나 가비(단검 · 가슴 L)
@@ -71,7 +76,10 @@ HEROES = {
     'irang': dict(hit=True, strip='gen-irang', atk='slash', atk8=True, act=True, legacy=(('b', 3), ('b', 1), ('b', 2), ('b', 4)), cells8=[('b', 4), ('b', 3), ('b', 3), ('b', 1), ('b', 1), ('b', 2), ('b', 3), ('b', 4)]),   # 조문 이랑(단검 · 가슴 M) · 내려베기 a 판은 그림 도구가 거절 → b 판 넷으로 여덟 칸(거둠 칸을 당김으로 · 찌르는 칸 넷째)
     'sogeumbi': dict(hit=True, strip='gen-sogeumbi', atk='slash', atk8=True, act=True, legacy=(('a', 1), ('a', 3), ('b', 2), ('b', 4))),   # 옥저 소금비(한 손 칼 · 가슴 M)
     'baram': dict(strip='gen-baram', atk='stab', atk8=True, act=True, legacy=(('a', 2), ('a', 3), ('b', 1), ('b', 2)), cells8=[('a', 1), ('a', 2), ('a', 3), ('a', 4), ('b', 1), ('b', 2), ('a', 1), ('b', 4)]),   # 고사부리 바람(단검 · 가슴 M) · 11-24 새 단검 인형 찌르기(stab · 타격 a4) · 좁은 칸은 뿌리 앞 104 까지라 a4(108) 대신 버팀 b1(98) · b3 이 팔을 다시 뻗어 두 번 찌르듯 보여(독립 검수) 일곱째 칸은 낮은 겨눔 a1 · b1 머리칼의 자홍 점 여섯은 이웃 색으로 메움(px)
-    'byeol': dict(strip='gen-byeol', atk='slash', atk8=True, act=True, legacy=(('a', 1), ('a', 3), ('b', 2), ('b', 4))),   # 벽진 별(한 손 칼 · 가슴 M · 달군 칼날은 불빛 없이) · 11-24 G4(내려베기 a)만 받음 · G5(b) 거절 → 보류
+    'byeol': dict(hit=True, strip='gen-byeol', atk='slash', atk8=True, act=True, legacy=(('a', 1), ('a', 3), ('b', 2), ('b', 4))),   # 벽진 별(한 손 칼 · 가슴 M · 달군 칼날은 불빛 없이) · 11-24 G4(내려베기 a)만 받음 · G5(b) 거절 → 보류
+    'maru': dict(strip='gen-base-w-46-geonma-maru', atk='thrust', src='thrust2', actw=264, atk8=True, act=True, legacy=(('a', 2), ('a', 3), ('b', 3), ('b', 4))),   # 건마 마루(짧은 창 · 가슴 M) · 여섯째 묶음
+    'mudeung': dict(strip='gen-base-w-48-mujin-mudeung', atk='thrust', src='thrust2', actw=264, atk8=True, act=True, legacy=(('a', 2), ('a', 3), ('b', 3), ('b', 4))),   # 무진 무등(깃털 단 창 · 우람한 뼈대 · 나이 든 얼굴) · 여섯째 묶음
+    'yneoul': dict(strip='gen-base-w-71-yeonna-neoul', atk='thrust', src='thrust2', actw=264, atk8=True, act=True, legacy=(('a', 2), ('a', 3), ('b', 3), ('b', 4))),   # 연나 너울(창 · 가슴 M) · 여섯째 묶음
     'haebi': dict(hit=True, strip='gen-haebi', atk='chop', atk8=True, act=True),   # act = 공격 여덟 칸이 넓은 동작 칸(240×224 · 뿌리 92 · 발 줄 216)
     'areum': dict(hit=True, strip='gen-areum', atk='slam', atk8=True, act=True, lock='none'),   # 받은 그림 그대로(얼굴을 떠다 붙이지 않는다 — 11-24: 뭉친 얼굴이 여덟 칸에 퍼졌다) · 옛 lock='face': 메가 머리 뒤로 지나간다 — 머리 상자는 메를 자르고(「포스터」), 윗몸을 통째로 묶으면 떠다닌다(11-24 형) → 얼굴 안쪽만 묶는다
 }
